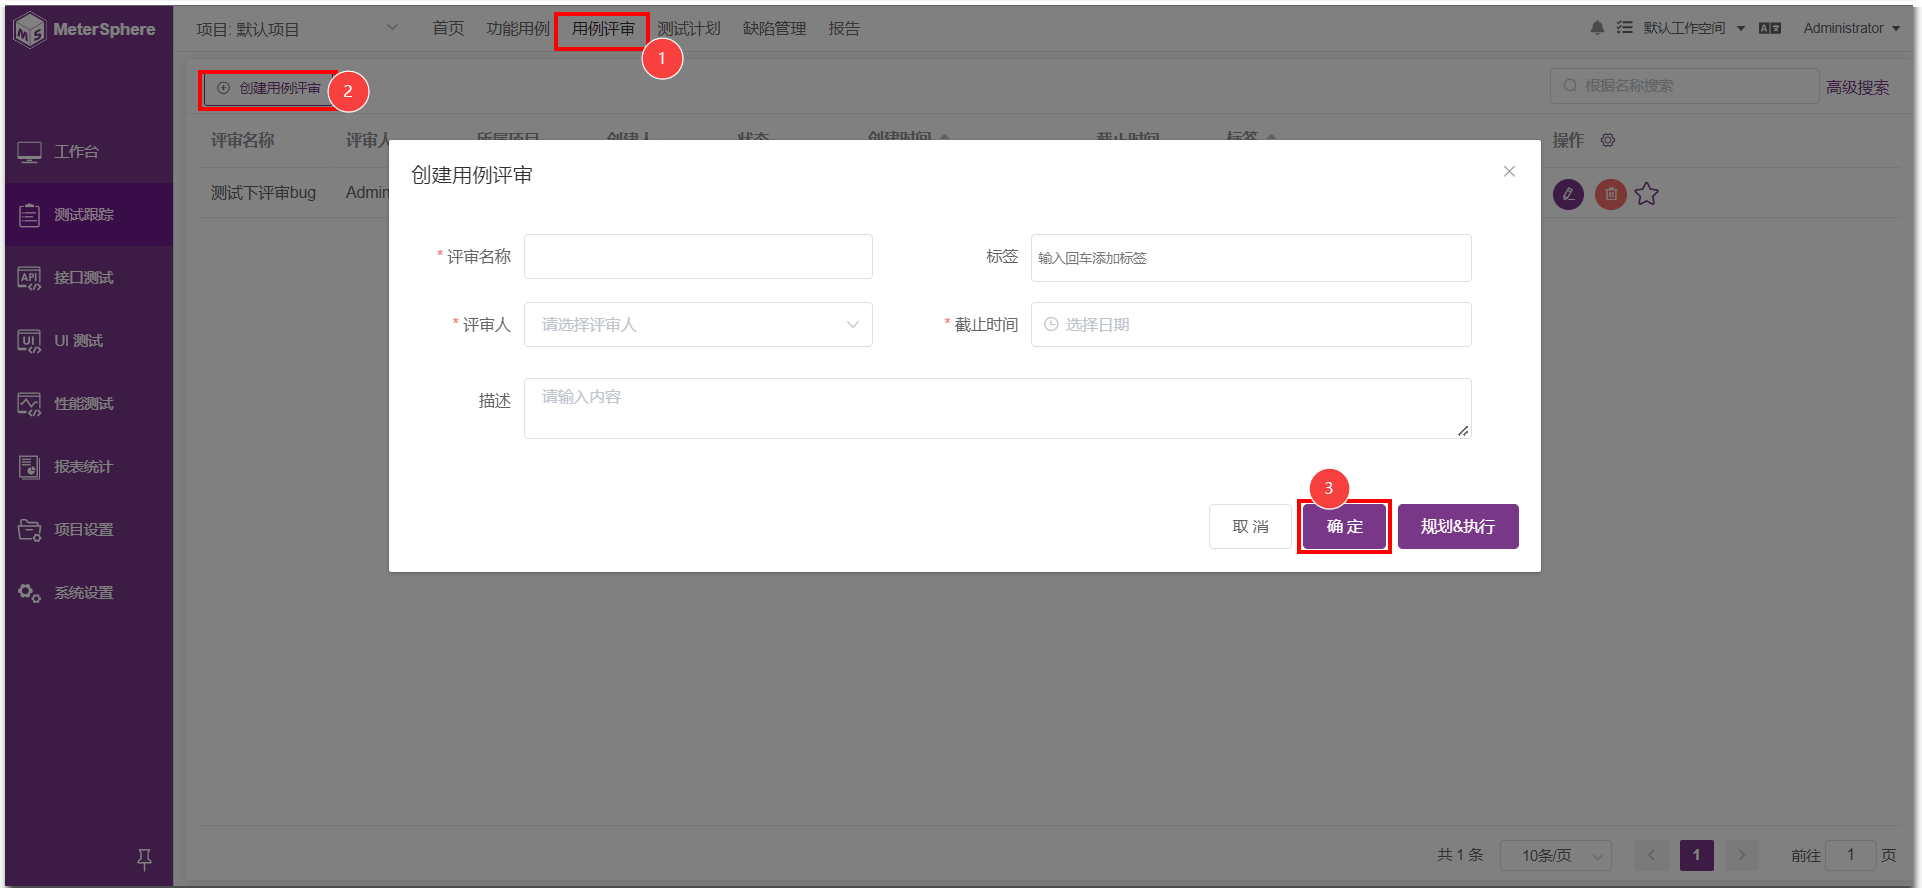
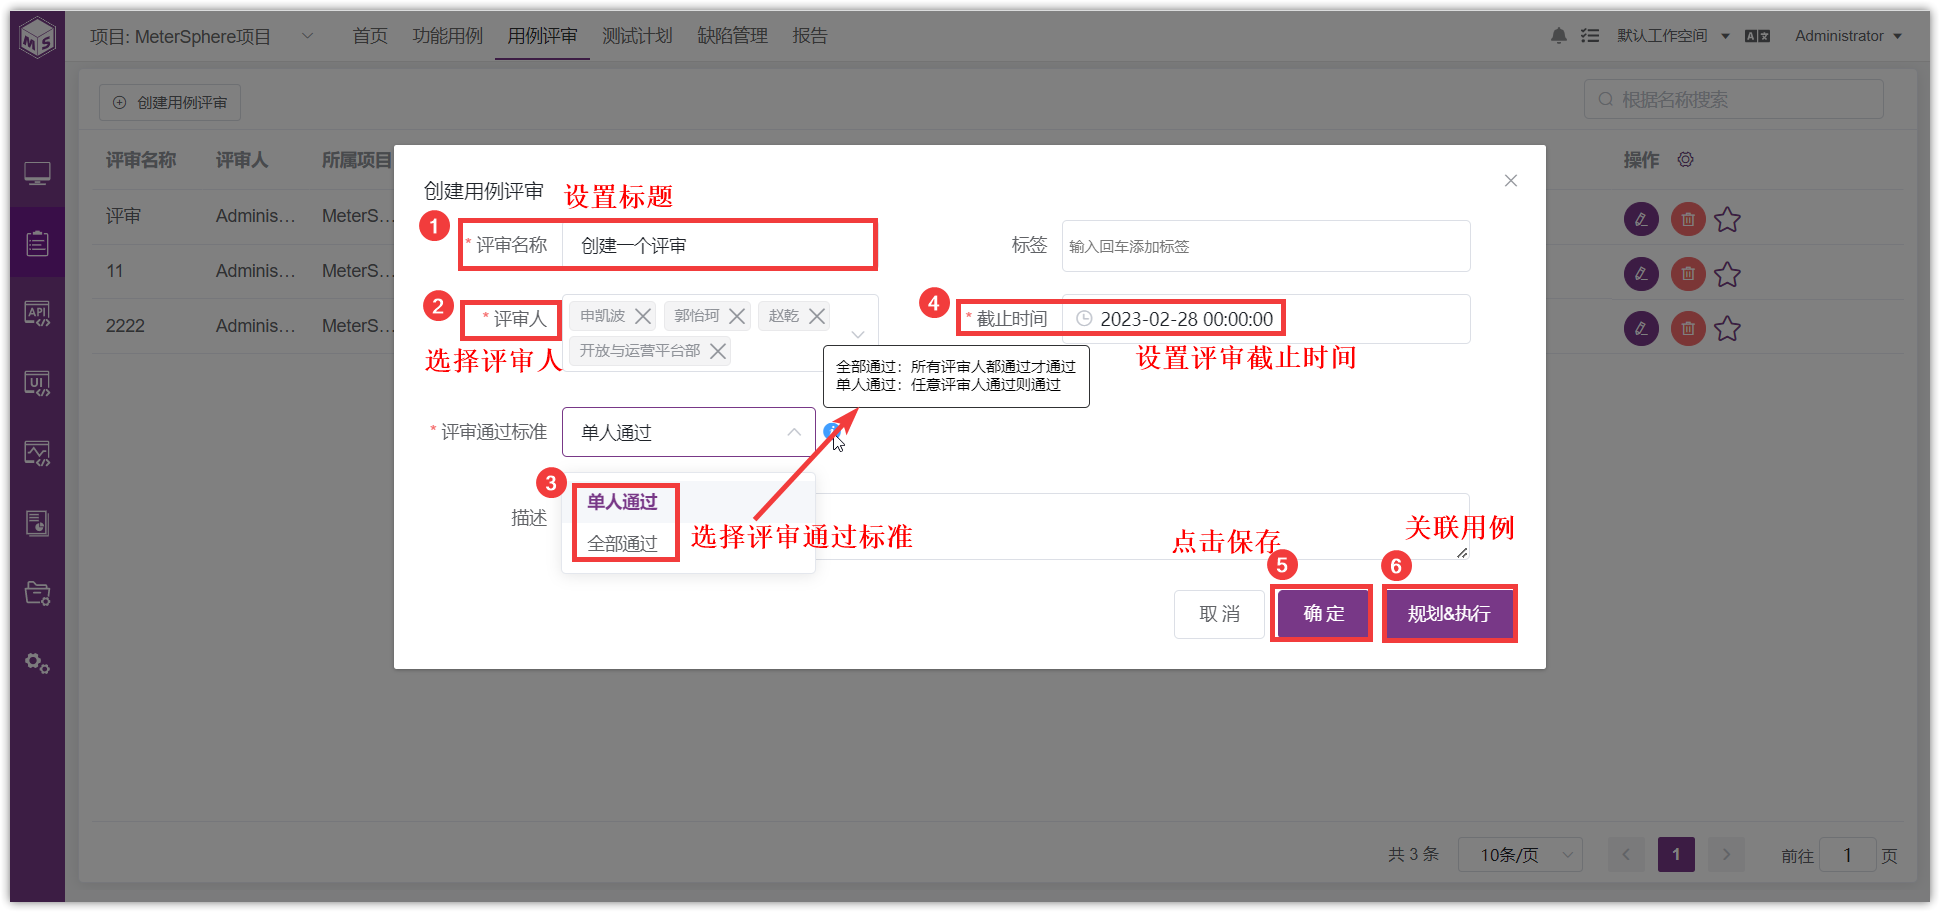
docs: 更新多人评审、重新提审、执行测试计划配置、报告查看失败重试结果等功能。

diff --git a/docs/user_manual/test_track/test_case_review.md b/docs/user_manual/test_track/test_case_review.md
@@ -16,13 +16,17 @@
 ### 1.2 创建用例评审任务
 ![!用例评审](../../img/track/用例评审首页.png)
 
-在弹出页面中编辑评审任务基础信息，点击【确认】保存至评审任务列表，用户可以在用例评审主页点击选定评审任务的【编辑】按钮重新进入编辑窗口。在任务创建页面，点击【规划&执行】将直接进入评审任务执行主页。<br>
+点击【创建用例评审】按钮，创建一个用例评审。<br>
 ![!用例评审](../../img/track/创建用例评审.png)
+
+!!! info "评审通过标准"
+    1. 全部通过：所有评审人都通过才通过。
+    2. 单人通过：任意评审人通过则通过。
 
 在评审任务执行主页，点击右侧列表上方的【关联用例】按钮为评审任务关联用例。<br>
 ![!选择测试用例](../../img/track/关联测试用例1.png)
 
-在弹出的用例选择列表中，选择要添加到此次用例评审任务中的测试用例，点击【确定】完成添加。<br>
+在弹出的用例选择列表中，选择要添加到此次用例评审任务中的测试用例，点击【确定】完成添加<br>
 ![!选择测试用例](../../img/track/关联测试用例2.png)
 
 ### 1.3 编辑评审
@@ -68,13 +72,21 @@
 如果不是从头开始做测试用例评审，可以用鼠标点击具体的某个测试用例，或者点击【编辑】，进入指定测试用例的评审。
 ![!关联测试用例](../../img/track/指定用例评审1.png)
 
-![!关联测试用例](../../img/track/指定用例评审2.png)
-
 #### <font size=4> 1.4.3 脑图模式评审用例</font>
 除了通过列表及表单方式评审用例外，用户还可以通过脑图方式实现此功能。在用例列表页面点击【脑图】切换到脑图展示模式，选中待评审用例，通过添加标签的方式来标记用例评审结果。<br>
 ![!脑图评审测试用例](../../img/track/脑图评审测试用例.png)
 
-### 1.5 批量操作
+### 1.5 重新提审
+当评审活动中的用例发生内容变更后，用例状态会自动切换为【重新提审】状态。
+![!开启重新提审](../../img/track/开启重新提审.png)
+
+评审人可快速检索出需要重新评审的用例。评审列表中还支持手动更新为【重新提审】状态。
+![!筛选重新提审](../../img/track/筛选重新提审.png)
+
+!!! info "开启重新提审"
+    【重新提审】流程需要在【应用管理】->【测试跟踪】选项卡中开启【重新提审】开关。
+
+### 1.6 批量操作
 功能详细介绍及使用说明参考 [通用功能->表头功能](../../general/#_8)。勾选或全选所有用例，点击【…】按钮，可对其做批量的编辑和取消等相关操作。<br>
 ![!批量操作](../../img/track/批量操作1.png)
 

diff --git a/docs/user_manual/test_track/test_plan.md b/docs/user_manual/test_track/test_plan.md
@@ -43,7 +43,23 @@
 
 ![!创建计划](../../img/track/创建测试计划3.png) 
 
-#### <font size=4> 1.2.2 维护测试计划 </font>
+#### <font size=4> 1.2.2 执行测试计划 </font>
+点击用例列表【执行】设置运行环境、执行模式、资源池、失败重试、失败停止等功能，可以进行【保存】、【保存并执行】、【执行】操作。
+![!创建计划](../../img/track/执行测试计划.png) 
+
+!!! info "执行操作"
+    1. 保存：只保存当前设置的默认环境及运行配置，不触发执行。
+    2. 保存并执行：保存当前设置的默认环境及运行配置并触发执行。
+    3. 执行：不修改当前默认环境及运行配置，直接触发执行。
+    改配置操作会影响【定时任务】、【流水线调用】、【API调用】，请慎重修改。
+
+#### <font size=4> 1.2.4 失败重试 </font>
+!!! info "失败重试"
+    1. 测试计划中的用例执行失败后，支持根据设定的重试次数再次发起执行，测试报告会完整记录接口首次运行以及最后10次运行的响应结果，供用户进行对比分析。
+![!创建计划](../../img/track/查看失败重试请求.png) 
+
+
+#### <font size=4> 1.2.5 维护测试计划 </font>
 在测试计划列表信息列表，点击某条计划，可以对测试计划详情进行维护；
 ![!维护计划](../../img/track/维护计划1.png) 
 
@@ -67,7 +83,7 @@
 !!! info "备注："
     此状态可由系统自动更新，也可以手动维护，手动改状态只是改测试计划的状态，里面的用例状态不会判断，也不会修改。
 
-#### <font size=4> 1.2.3 关联测试用例 </font>
+#### <font size=4> 1.2.6 关联测试用例 </font>
 关联测试用例支持记住跨页选择的记录，再一并导入。
 ![!新建测试计划](../../img/track/跨页选择进行导入.png)
 
